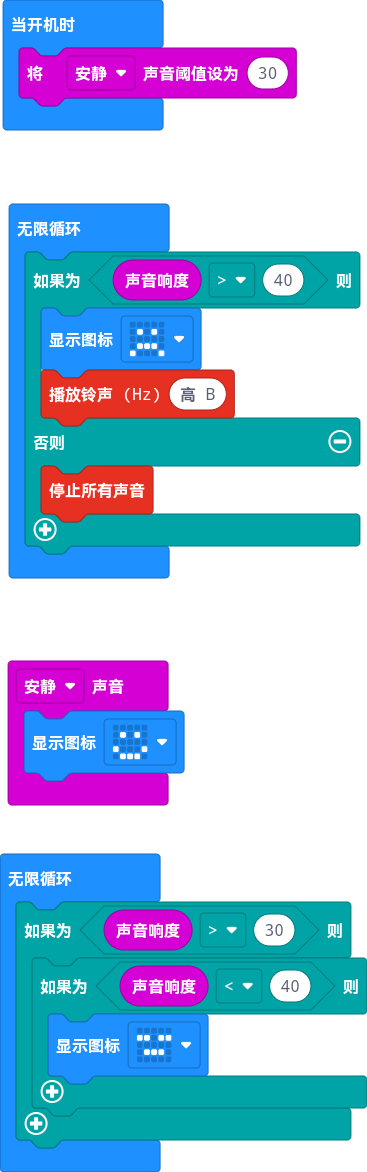
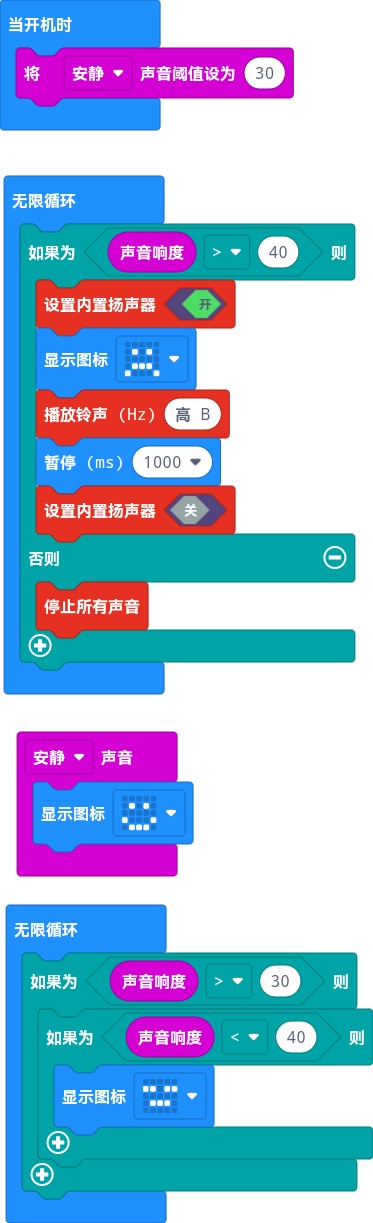
更新 main.blocks, main.ts

diff --git a/main.ts b/main.ts
@@ -4,8 +4,11 @@ input.onSound(DetectedSound.Quiet, function () {
 input.setSoundThreshold(SoundThreshold.Quiet, 30)
 basic.forever(function () {
     if (input.soundLevel() > 40) {
+        music.setBuiltInSpeakerEnabled(true)
         basic.showIcon(IconNames.Sad)
         music.ringTone(988)
+        basic.pause(1000)
+        music.setBuiltInSpeakerEnabled(false)
     } else {
         music.stopAllSounds()
     }
